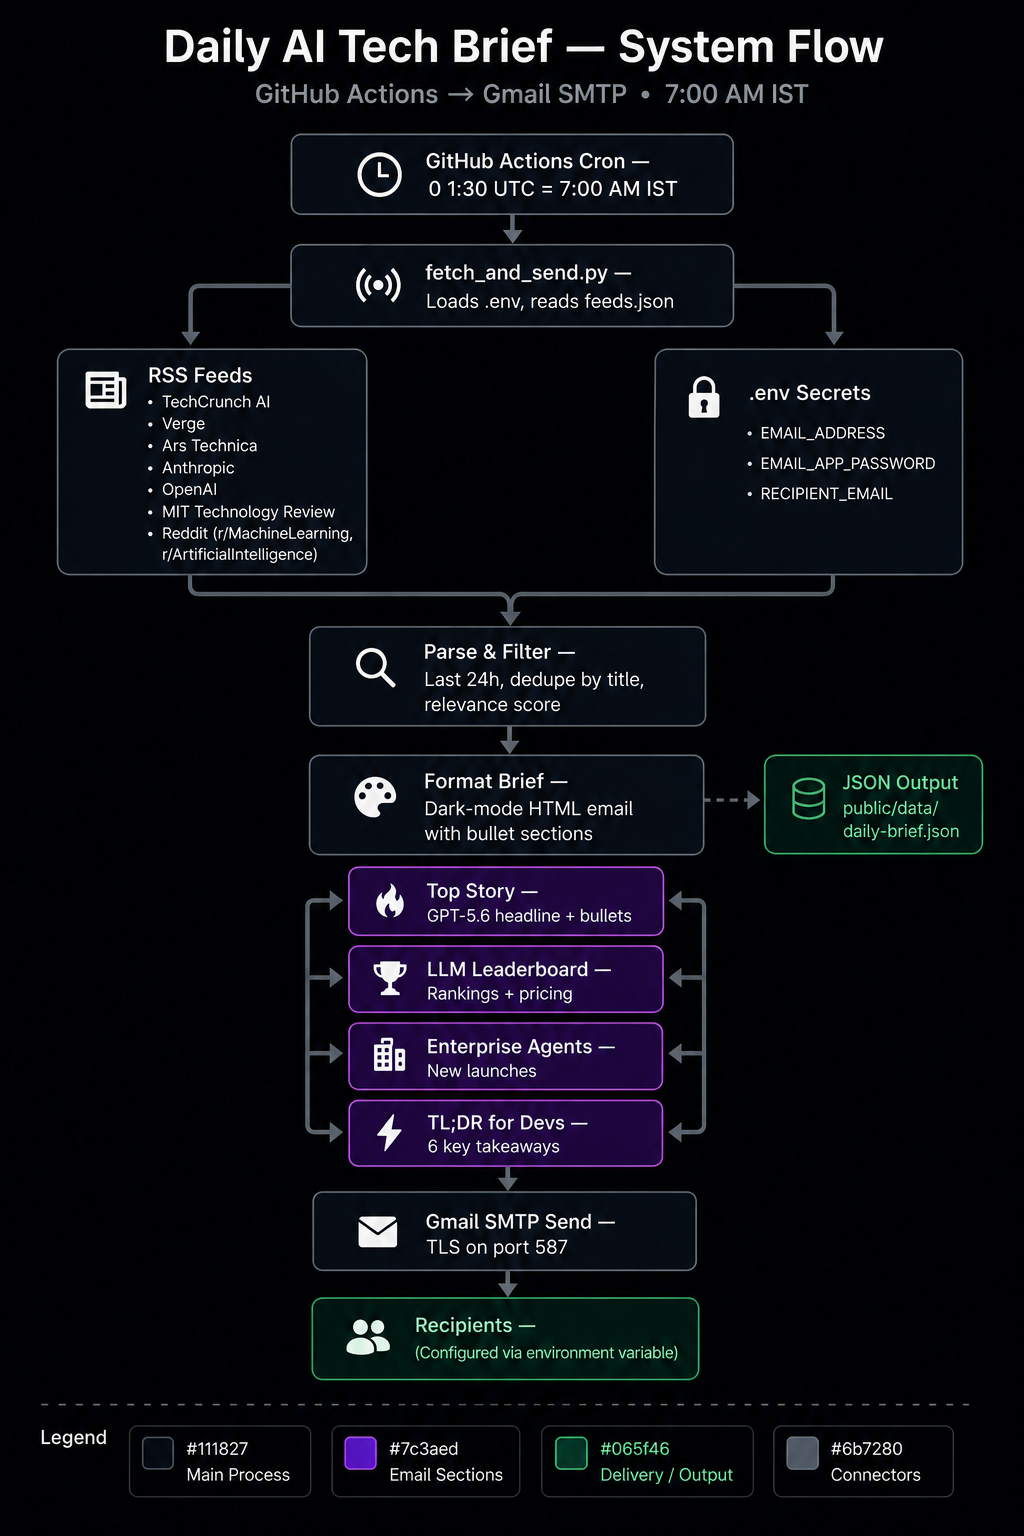
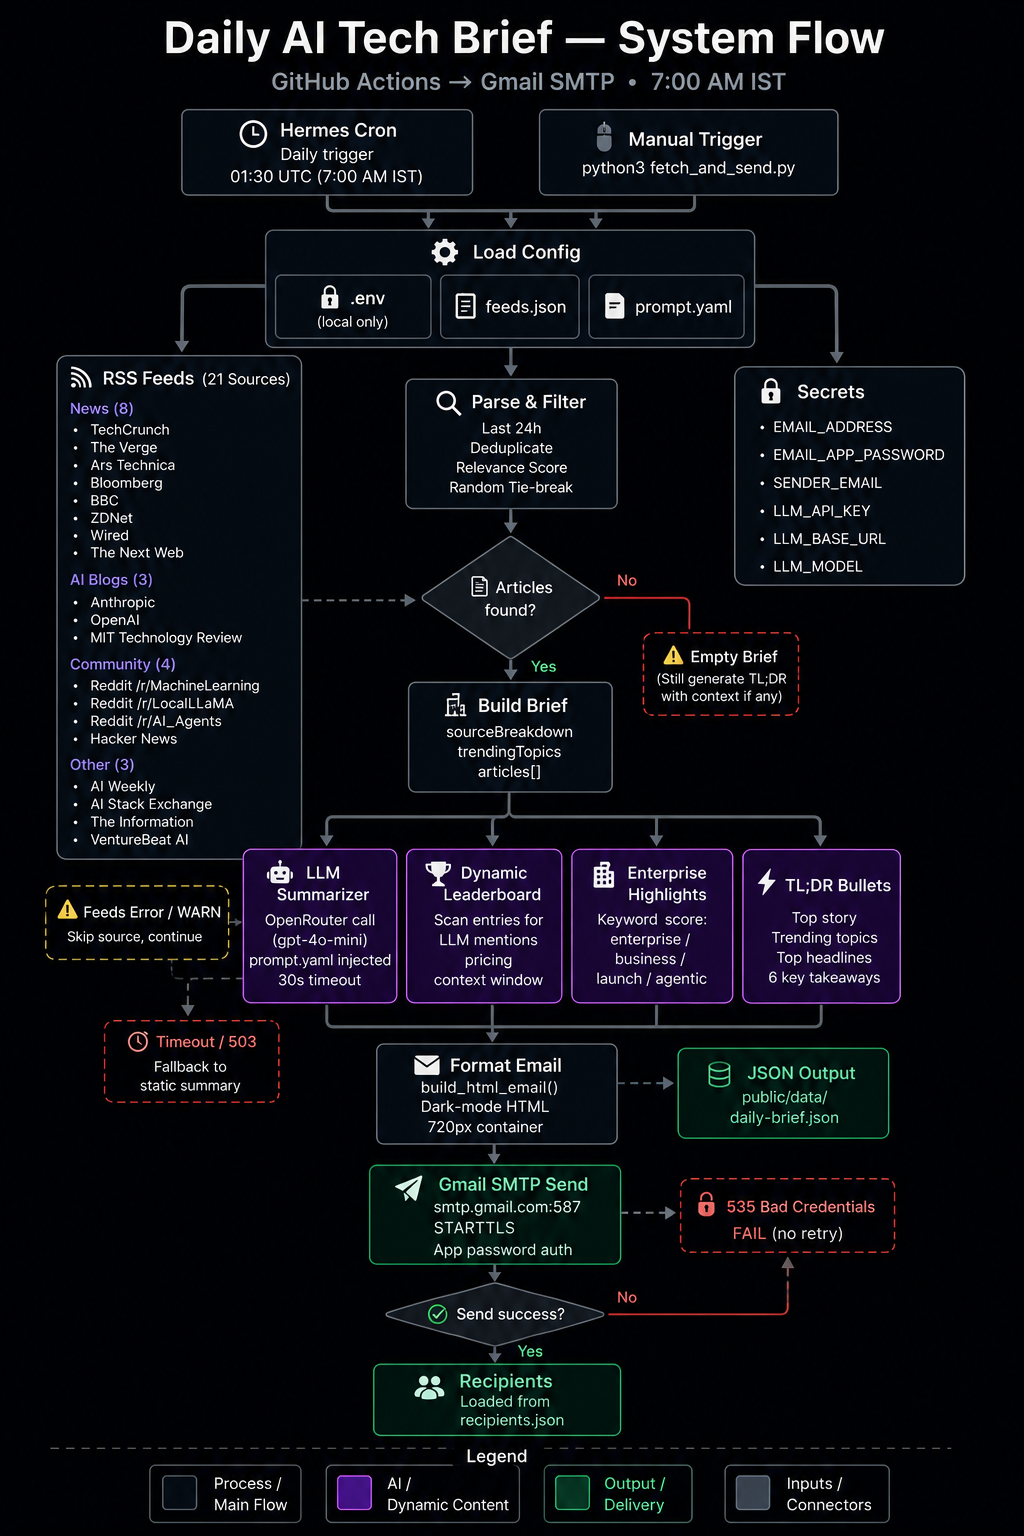
Feat: prompt.yaml,Flowchart.png,requirements.txt,feeds.json,fecth_and_send.py

diff --git a/fetch_and_send.py b/fetch_and_send.py
@@ -1,9 +1,11 @@
-import os, json, datetime, re, html
+import os, json, datetime, re, html, requests
+import random
 import smtplib
 from email.mime.text import MIMEText
 from email.mime.multipart import MIMEMultipart
 import feedparser
 from dotenv import load_dotenv
+import yaml
 
 load_dotenv()
 
@@ -15,7 +17,14 @@ SENDER_EMAIL = os.getenv("SENDER_EMAIL", EMAIL_ADDRESS)
 FEEDS_FILE = "feeds.json"
 OUTPUT_FILE = "public/data/daily-brief.json"
 HOURS_LOOKBACK = int(os.getenv("HOURS_LOOKBACK", "24"))
-MAX_ARTICLES = int(os.getenv("MAX_ARTICLES", "25"))
+MAX_ARTICLES = int(os.getenv("MAX_ARTICLES", "50"))
+
+LLM_API_KEY = os.getenv("LLM_API_KEY", "")
+LLM_BASE_URL = os.getenv("LLM_BASE_URL", "https://openrouter.ai/api/v1")
+LLM_MODEL = os.getenv("LLM_MODEL", "openai/gpt-4o-mini")
+
+with open("prompt.yaml", "r", encoding="utf-8") as f:
+    LLM_PROMPT_TEMPLATE = yaml.safe_load(f)["llm_summary_prompt"]
 
 KEYWORDS_WEIGHT = [
     "agent","agentic","llm","language model","gpt","claude","openai",
@@ -100,8 +109,42 @@ def fetch_feeds(feeds_path=FEEDS_FILE):
 
     for e in entries:
         e["relevance"] = relevance_score(e["title"], e["summary"], KEYWORDS_WEIGHT)
-    entries.sort(key=lambda x: (-x["relevance"], x["published"]))
+    # Sort by relevance first, then use a random tie-breaker so each run picks different articles
+    entries.sort(key=lambda x: (-x["relevance"], random.random()))
     return entries[:MAX_ARTICLES]
+
+
+def generate_llm_summary(entries):
+    api_key = LLM_API_KEY
+    if not api_key or not entries:
+        return None
+
+    context_parts = []
+    for i, e in enumerate(entries[:8], 1):
+        context_parts.append(f"{i}. [{e['source']}] {e['title']}: {e['summary']}")
+    context = "\n".join(context_parts)
+
+    prompt = LLM_PROMPT_TEMPLATE.replace("{articles}", context)
+
+    try:
+        resp = requests.post(
+            f"{LLM_BASE_URL}/chat/completions",
+            headers={"Authorization": f"Bearer {api_key}", "Content-Type": "application/json"},
+            json={
+                "model": LLM_MODEL,
+                "messages": [{"role": "user", "content": prompt}],
+                "temperature": 0.3,
+                "max_tokens": 600,
+            },
+            timeout=30,
+        )
+        resp.raise_for_status()
+        data = resp.json()
+        return data["choices"][0]["message"]["content"]
+    except Exception as e:
+        print(f"[LLM WARN] {e}")
+        return None
+
 
 # ─── FORMAT BRIEF ──────────────────────────────────────────────────────────
 
@@ -129,11 +172,23 @@ def build_brief(entries):
         "summary": e["summary"],
     } for e in entries]
 
-    summary_text = (
-        f"{len(entries)} relevant stories from your source feeds. "
-        "Key angles: agentic AI progression, new model releases, pricing pressure, "
-        "enterprise adoption, and compute supply chain shifts."
-    )
+    llm_output = generate_llm_summary(entries)
+    if llm_output:
+        lines = [l.strip() for l in llm_output.splitlines() if l.strip()]
+        summary_text = lines[0] if lines else llm_output[:200]
+        llm_bullets = []
+        in_bullets = False
+        for line in lines[1:]:
+            if line.startswith("-") or line.startswith("•"):
+                llm_bullets.append(line.lstrip("-• ").strip())
+        llm_bullets = llm_bullets[:3]
+    else:
+        summary_text = (
+            f"{len(entries)} relevant stories from your source feeds. "
+            "Key angles: agentic AI progression, new model releases, pricing pressure, "
+            "enterprise adoption, and compute supply chain shifts."
+        )
+        llm_bullets = []
 
     top = entries[0] if entries else None
     brief = {
@@ -148,7 +203,7 @@ def build_brief(entries):
         } if top else None,
         "trendingTopics": [{"name": n, "count": c} for n, c in trending],
         "newsCards": _build_news_cards(entries),
-        "highlights": _build_highlights(entries, trending),
+        "highlights": _build_highlights(entries, trending, llm_bullets=llm_bullets),
         "sourceBreakdown": breakdown,
         "articles": articles,
     }
@@ -189,20 +244,26 @@ def _build_news_cards(entries):
     return cards
 
 
-def _build_highlights(entries, trending):
+def _build_highlights(entries, trending, llm_bullets=None):
     if not entries:
         return []
     top = entries[0]
     topic = trending[0][0] if trending else "AI"
+    bullets = llm_bullets if llm_bullets else [
+        f"Top story today centers on {topic.lower()}. "
+        "Market and developer signals indicate this will affect pricing, "
+        "tooling choices, and enterprise adoption in the next quarter."
+    ]
+    why_it_matters = bullets[0] if bullets else (
+        f"Top story today centers on {topic.lower()}. "
+        "Market and developer signals indicate this will affect pricing, "
+        "tooling choices, and enterprise adoption in the next quarter."
+    )
     return [{
         "topic": topic,
         "headline": top["title"],
         "url": top["link"],
-        "whyItMatters": (
-            f"Top story today centers on {topic.lower()}. "
-            "Market and developer signals indicate this will affect pricing, "
-            "tooling choices, and enterprise adoption in the next quarter."
-        ),
+        "whyItMatters": why_it_matters,
     }]
 
 # ─── EMAIL FORMAT ──────────────────────────────────────────────────────────